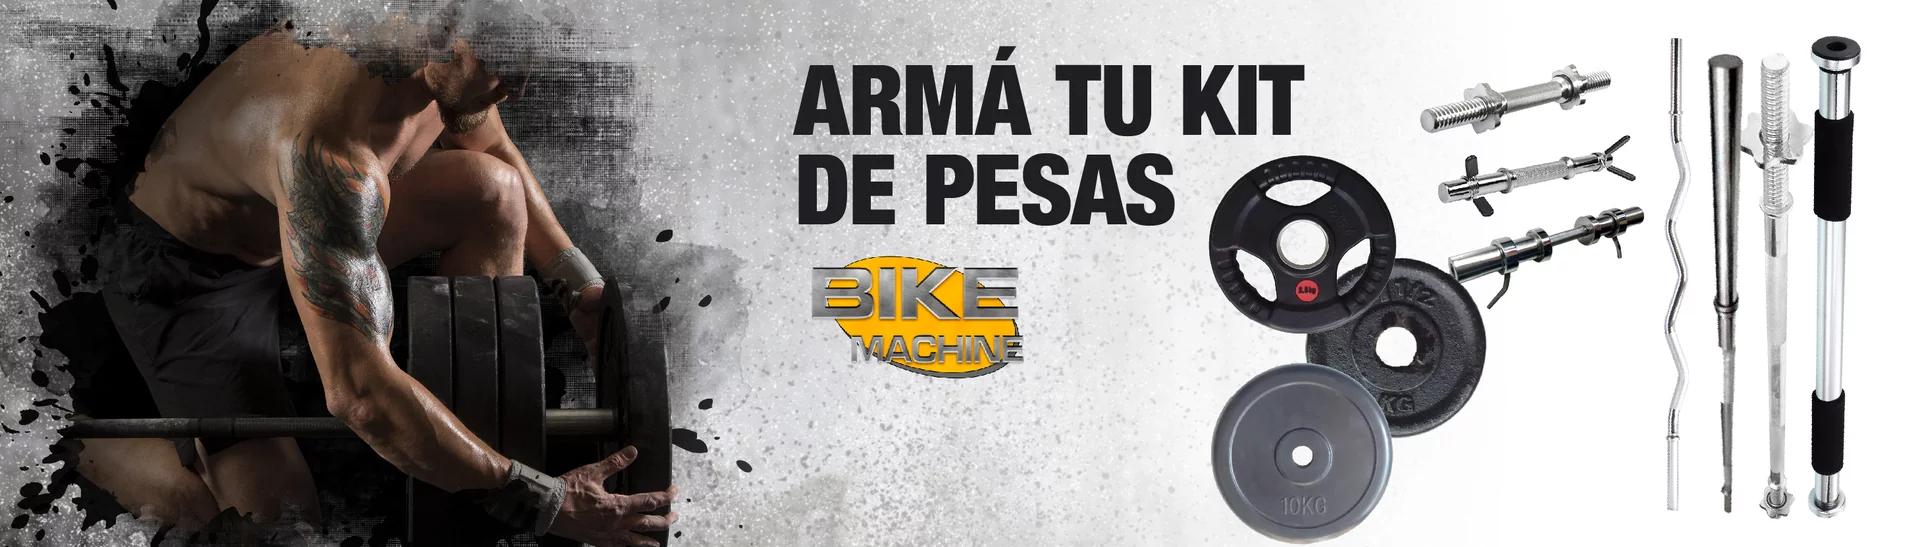
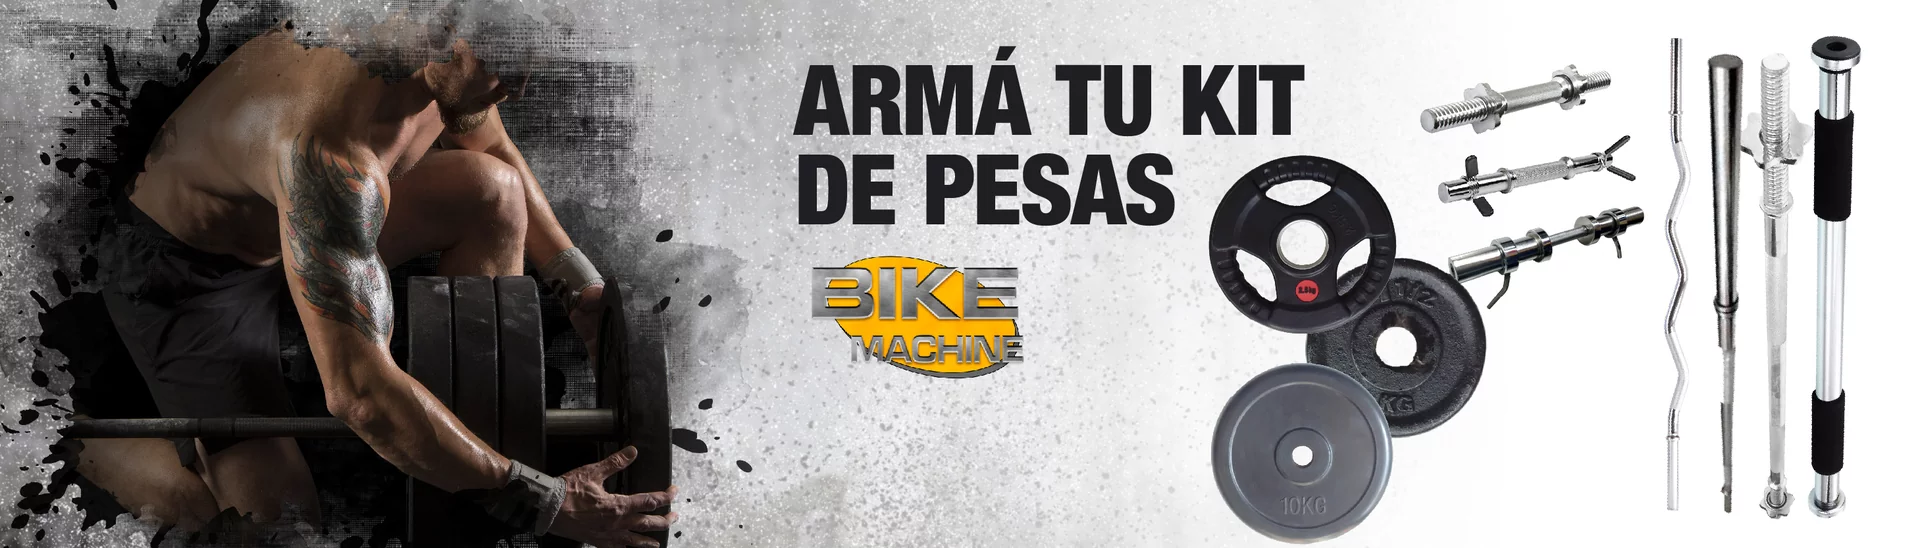
agregando carrousel

diff --git a/index.html b/index.html
@@ -51,14 +51,32 @@
 
     <main class="main row">
 
-        <div class="separador"></div>
+        <div class="col-md-12">
 
-        <div class="banner">
-            <img src="imagenes/arma_tu_kit_banner.png" alt="arma tu kit de pesas">
+            <div class="separador"></div>
+
+            <div id="carouselExampleIndicators" class="carousel slide" data-bs-ride="carousel">
+                <div class="carousel-indicators">
+                    <button type="button" data-bs-target="#carouselExampleIndicators" data-bs-slide-to="0"
+                        class="active" aria-current="true" aria-label="Slide 1"></button>
+                    <button type="button" data-bs-target="#carouselExampleIndicators" data-bs-slide-to="1"
+                        aria-label="Slide 2"></button>
+                </div>
+                <div class="carousel-inner">
+                    <div class="carousel-item active">
+                        <img src="imagenes/arma_tu_kit_banner.png" class="d-block w-100" alt="...">
+                    </div>
+                    <div class="carousel-item">
+                        <img src="imagenes/cuotas-sin-interes.png" class="d-block w-100" alt="...">
+                    </div>
+                </div>
+            </div>
+
+
+
+            <div class="separadorDos"></div>
+
         </div>
-
-        <div class="separadorDos"></div>
-
     </main>
 
 

diff --git a/css/estilos.css b/css/estilos.css
@@ -7,6 +7,7 @@ html{
     font-size: 62,5%;
     }
 
+/*
 .body{
     display:grid;
     grid-template-columns: 1fr 1fr 1fr 1fr;
@@ -17,6 +18,7 @@ html{
     "destacados destacados destacados destacados"
     "footer footer footer footer";
 }
+*/
 
 .logo{
     display: flex;
@@ -64,6 +66,7 @@ html{
     flex-direction: column;
     justify-content: center;
     align-content: center;
+    padding-right: 40px;
 }
 
 .btnBuscar{
@@ -86,13 +89,11 @@ html{
 .separador{
     background-color: #5b5f63;
     height: 20px;
-    
 }
 
 .separadorDos {
     background: linear-gradient(to right, #FFB300, #F95503);
     height: 20px;
-    margin-top: -4px;
 }
 
 .destacados {
